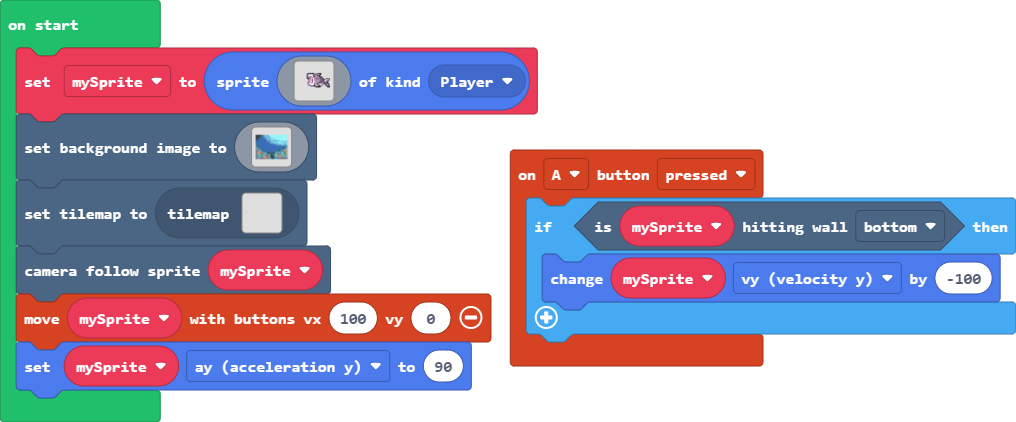
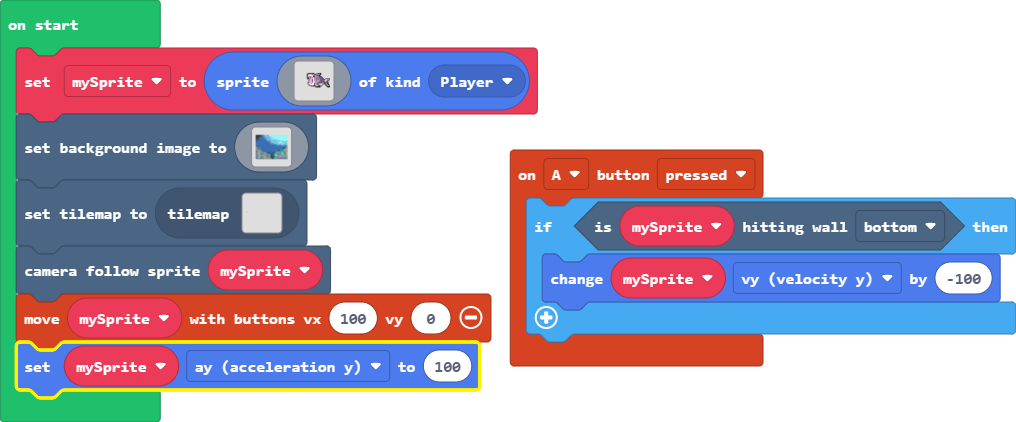
Update main.blocks, main.ts

Changed region(s): [[0.0, 0.8009, 0.4882, 0.955]]

diff --git a/main.ts b/main.ts
@@ -147,4 +147,4 @@ scene.setBackgroundImage(img`
 tiles.setCurrentTilemap(tilemap`level1`)
 scene.cameraFollowSprite(mySprite)
 controller.moveSprite(mySprite, 100, 0)
-mySprite.ay = 90
+mySprite.ay = 100
